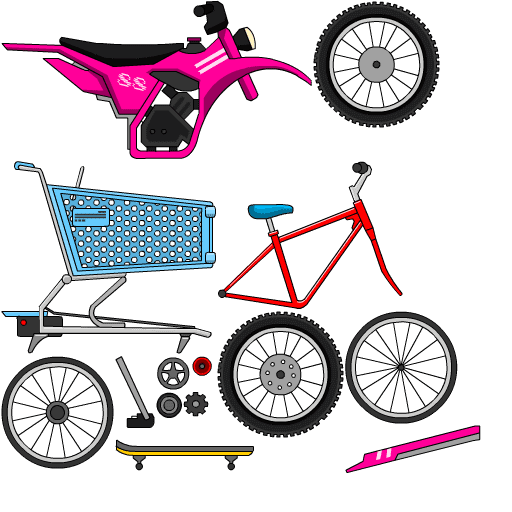
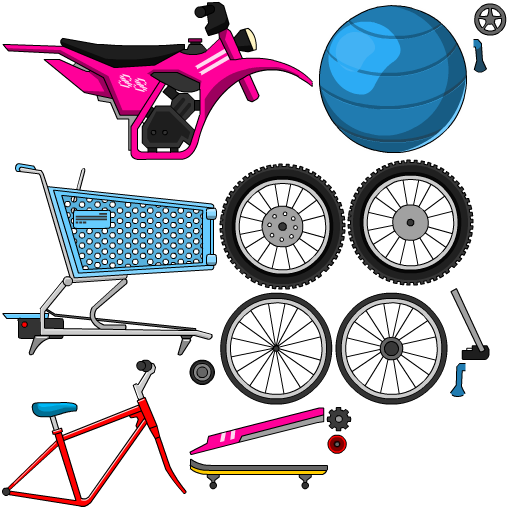
YogaBall in progress

diff --git a/src/prefabs/weapons/YogaBall.js b/src/prefabs/weapons/YogaBall.js
@@ -1,0 +1,82 @@
+import * as PrefabManager from '../PrefabManager';
+import {
+    game
+} from "../../Game";
+import {
+    Settings
+} from '../../Settings';
+import * as PIXI from 'pixi.js';
+
+
+class YogaBall extends PrefabManager.basePrefab {
+    constructor(target) {
+		super(target);
+        this.base = this.lookupObject.base;
+		this.steps = 12;
+		this.buildMesh();
+	}
+
+	update(){
+		this.updateMesh();
+	}
+
+
+	buildMesh(){
+		const t = PIXI.Texture.from('YogaBall0000')
+		this.mesh = new PIXI.SimpleMesh(t, ...this.getMeshData());
+		this.base.mySprite.addChild(this.mesh);
+	}
+
+	updateMesh(){
+
+		const [vertices, uvs] = this.getMeshData();
+
+		this.mesh.verticesBuffer.update(vertices);
+		this.mesh.uvBuffer.update(uvs);
+	}
+
+	getMeshData(){
+		const radiusAr = [];
+
+		for(let i = 0; i<this.steps; i++){
+			const targetBodyIndex = (i + 3) % this.steps + 1;
+			const p = this.lookupObject[`b${targetBodyIndex}`];
+			p.mySprite.visible = false;
+			radiusAr.push(this.base.GetPosition().Clone().SelfSub(p.GetPosition()).Length()*Settings.PTM);
+		}
+
+		const rInc = 16;
+
+		const vertices = [0,0];
+		const indices = [];
+
+		const step = 360 / this.steps;
+
+		for(let i = 0; i < this.steps; i ++) {
+			const r = radiusAr[i] + rInc;
+			vertices.push( Math.cos(Math.PI * i * step / 180)*r, Math.sin(Math.PI * i * step / 180)*r);
+			indices.push(0, i + 1, i);
+		}
+
+		indices.push(0, 1, this.steps);
+
+		const uvs = vertices.map((e, i) => {
+			let r;
+			if(i <= 1){
+				r = 75;
+			}else{
+				const vindex = Math.floor((i-2) / 2);
+				r = radiusAr[vindex] + rInc;
+			}
+			return 0.5 + e / r / 2;
+		});
+
+		return [vertices, uvs, indices]
+	}
+}
+
+PrefabManager.prefabLibrary.YogaBall = {
+    json: '{"objects":[[0,0.0063,0.0013,0,"yogaball","base",0,["#999999"],["#000"],[1],false,true,[[{"x":0,"y":0},{"x":0,"y":0}]],[1],[0],[20],"",[1],true,false,false,[0.5],[0.2],false],[0,-0.0011,-2.1001,0,"yogaball","b1",1,["#999999"],["#000"],[1],false,true,[[{"x":0,"y":0},{"x":0,"y":0}]],[1],[0],[10],"",[1],true,false,false,[0.5],[0.2],false],[0,0.0063,2.1013,0,"yogaball","b7",2,["#999999"],["#000"],[1],false,true,[[{"x":0,"y":0},{"x":0,"y":0}]],[1],[0],[10],"",[1],true,false,false,[0.5],[0.2],false],[0,2.073,0.0013,0,"yogaball","b4",3,["#999999"],["#000"],[1],false,true,[[{"x":0,"y":0},{"x":0,"y":0}]],[1],[0],[10],"",[1],true,false,false,[0.5],[0.2],false],[0,-2.0937,0.0013,0,"yogaball","b10",4,["#999999"],["#000"],[1],false,true,[[{"x":0,"y":0},{"x":0,"y":0}]],[1],[0],[10],"",[1],true,false,false,[0.5],[0.2],false],[2,0.1892,63.0403,0,"yogaball","j7",5,0,2,2,false,false,1,10,false,0,0,0.5,4,0,0,true],[2,-62.8108,0.0403,0,"yogaball","j10",6,0,4,2,false,false,1,10,false,0,0,0.5,4,0,0,true],[2,0.1892,-63.1578,0,"yogaball","j1",7,0,1,2,false,false,1,10,false,0,0,0.5,4,0,0,true],[2,62.8319,0.0403,0,"yogaball","j4",8,0,3,2,false,false,1,10,false,0,0,0.5,4,0,0,true],[0,-1.0512,-1.8183,-0.5236,"yogaball","b12",9,["#999999"],["#000"],[1],false,true,[[{"x":0,"y":0},{"x":0,"y":0}]],[1],[0],[10],"",[1],true,false,false,[0.5],[0.2],false],[0,1.0559,1.8165,-0.5236,"yogaball","b6",10,["#999999"],["#000"],[1],false,true,[[{"x":0,"y":0},{"x":0,"y":0}]],[1],[0],[10],"",[1],true,false,false,[0.5],[0.2],false],[0,1.7958,-1.0355,-0.5236,"yogaball","b3",11,["#999999"],["#000"],[1],false,true,[[{"x":0,"y":0},{"x":0,"y":0}]],[1],[0],[10],"",[1],true,false,false,[0.5],[0.2],false],[0,-1.8127,1.0479,-0.5236,"yogaball","b9",12,["#999999"],["#000"],[1],false,true,[[{"x":0,"y":0},{"x":0,"y":0}]],[1],[0],[10],"",[1],true,false,false,[0.5],[0.2],false],[2,31.6778,54.4974,-0.5236,"yogaball","j6",13,0,10,2,false,false,1,10,false,0,0,0.5,4,0,0,true],[2,-54.3818,31.4378,-0.5236,"yogaball","j9",14,0,12,2,false,false,1,10,false,0,0,0.5,4,0,0,true],[2,-31.4212,-54.7934,-0.5236,"yogaball","j12",15,0,9,2,false,false,1,10,false,0,0,0.5,4,0,0,true],[2,54.428,-31.3836,-0.5236,"yogaball","j3",16,0,11,2,false,false,1,10,false,0,0,0.5,4,0,0,true],[0,-1.8197,-1.0492,-1.0472,"yogaball","b11",17,["#999999"],["#000"],[1],false,true,[[{"x":0,"y":0},{"x":0,"y":0}]],[1],[0],[10],"",[1],true,false,false,[0.5],[0.2],false],[0,1.8225,1.0451,-1.0472,"yogaball","b5",18,["#999999"],["#000"],[1],false,true,[[{"x":0,"y":0},{"x":0,"y":0}]],[1],[0],[10],"",[1],true,false,false,[0.5],[0.2],false],[0,1.0372,-1.7947,-1.0472,"yogaball","b2",19,["#999999"],["#000"],[1],false,true,[[{"x":0,"y":0},{"x":0,"y":0}]],[1],[0],[10],"",[1],true,false,false,[0.5],[0.2],false],[0,-1.046,1.8042,-1.0472,"yogaball","b8",20,["#999999"],["#000"],[1],false,true,[[{"x":0,"y":0},{"x":0,"y":0}]],[1],[0],[10],"",[1],true,false,false,[0.5],[0.2],false],[2,54.6763,31.3547,-1.0472,"yogaball","j5",21,0,18,2,false,false,1,10,false,0,0,0.5,4,0,0,true],[2,-31.3833,54.4143,-1.0472,"yogaball","j8",22,0,20,2,false,false,1,10,false,0,0,0.5,4,0,0,true],[2,-54.6144,-31.7444,-1.0472,"yogaball","j11",23,0,17,2,false,false,1,10,false,0,0,0.5,4,0,0,true],[2,31.4381,-54.3955,-1.0472,"yogaball","j2",24,0,19,2,false,false,1,10,false,0,0,0.5,4,0,0,true]]}',
+    class: YogaBall,
+    library: PrefabManager.LIBRARY_WEAPON
+}

diff --git a/src/b2Editor/B2dEditor.js b/src/b2Editor/B2dEditor.js
@@ -7962,6 +7962,7 @@ const _B2dEditor = function () {
 				bodies = [this.selectedPhysicsBodies[0], this.selectedPhysicsBodies[1]];
 			}
 
+			if(!bodies[0]) return;
 			// filter anything that is not allowed
 			// NO TRIGGERS
 			if(bodies[0].mySprite.data.type !== this.object_BODY || (bodies[1] && bodies[1].mySprite.data.type !== this.object_BODY)) return;
